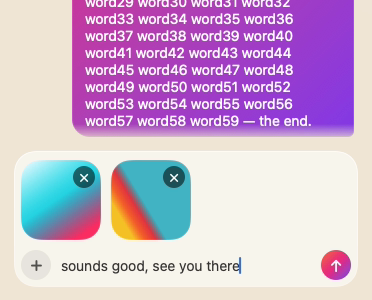
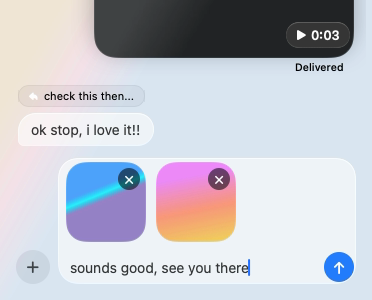
Refresh README screenshots and description for 0.4
New panel and composer screenshots in the Messages theme, showing edited, unsent and
delivered states. OPENHOY_FLAT_GLASS=1 draws glass controls with their frosted fallback,
since offscreen snapshots can't render Liquid Glass.

diff --git a/Sources/OpenHoy/Panel/Glass.swift b/Sources/OpenHoy/Panel/Glass.swift
@@ -80,7 +80,7 @@ extension View {
     /// A pressable control on Liquid Glass (macOS 26+); a soft filled shape before that.
     @ViewBuilder
     func glassControl<S: Shape>(_ shape: S, fallback: Color = Color.primary.opacity(0.08)) -> some View {
-        if #available(macOS 26.0, *) {
+        if #available(macOS 26.0, *), Theme.liquidGlass {
             glassEffect(.regular.interactive(), in: shape)
         } else {
             background(shape.fill(fallback))
@@ -90,7 +90,7 @@ extension View {
     /// A non-pressable glass field, such as the composer (macOS 26+); frosted before that.
     @ViewBuilder
     func glassField(cornerRadius: CGFloat) -> some View {
-        if #available(macOS 26.0, *) {
+        if #available(macOS 26.0, *), Theme.liquidGlass {
             glassEffect(.regular, in: RoundedRectangle(cornerRadius: cornerRadius, style: .continuous))
         } else {
             bubbleSurface(cornerRadius: cornerRadius, shadow: false)
@@ -208,6 +208,9 @@ enum Theme {
         return LinearGradient(colors: stops.count == 1 ? [stops[0], stops[0]] : stops,
                               startPoint: .topLeading, endPoint: .bottomTrailing)
     }
+    /// Offscreen snapshots can't draw Liquid Glass controls, so README screenshot runs
+    /// (OPENHOY_FLAT_GLASS=1) use the frosted fallback instead.
+    static let liquidGlass = ProcessInfo.processInfo.environment["OPENHOY_FLAT_GLASS"] == nil
     static let recordingOrange = Color(red: 0.98, green: 0.55, blue: 0.24)
     // Semantic, so the panel follows light / dark mode.
     static let text = Color.primary.opacity(0.92)

diff --git a/README.md b/README.md
@@ -8,8 +8,8 @@ A menu bar messenger for macOS that runs on **iMessage**. It needs no account, n
 
 ## What it does
 
-- **Your people in the menu bar.** Pin up to nine people. Your people sit side by side as round avatars, and several Messages threads for the same person (iMessage, SMS and older formats) are merged into one. Each avatar shows a pink dot for unread messages, a sunset-gradient ring when that chat is open, and a pencil when you have a draft. Hover to see the name.
-- **Click an avatar** to drop down a glass chat card. It has a compact header (photo, name, an iMessage/SMS chip, *Open in Messages* and expand buttons). Your messages are sunset-gradient bubbles, theirs are frosted, and time separators are small chips. At the bottom is a single input bar: **+**, *Message Tanya…*, and a round send button. It follows your light or dark mode.
+- **Your people in the menu bar.** Pin up to nine people. They sit as an overlapping stack of glass avatars that fans out when you hover, and several Messages threads for the same person (iMessage, SMS and older formats) are merged into one. Each avatar shows a dot for unread messages, a ring when that chat is open, and a pencil when you have a draft. Hover to see the name.
+- **Click an avatar** to drop down a glass chat card. It has a compact header (photo, name, an iMessage/SMS chip, *Open in Messages* and expand buttons). Your messages are blue (green for SMS), theirs are frosted, and time separators are small chips. Pick another look in **Settings › Appearance**: Messages, System Accent, Graphite, Ocean or Sunset. At the bottom is a single input bar: **+**, *Message Tanya…*, and a round send button. It follows your light or dark mode.
   - **⏎** or the **↑** button sends, **⇧⏎** adds a new line, and **Esc** discards the draft (or closes the panel).
   - 🎙 **Voice notes** (mic button, or **+** › Voice Note) show a live waveform and a live on-device transcript. Press **■** or ⏎ to stop, play it back, then send. The audio goes out as an `.m4a`, and the transcript is sent as a text (you can turn this off).
   - 📎 **Files and photos**, from **+** › Attach Files, pasted with ⌘V, or **dragged onto someone's avatar** in the menu bar (or onto the panel).
